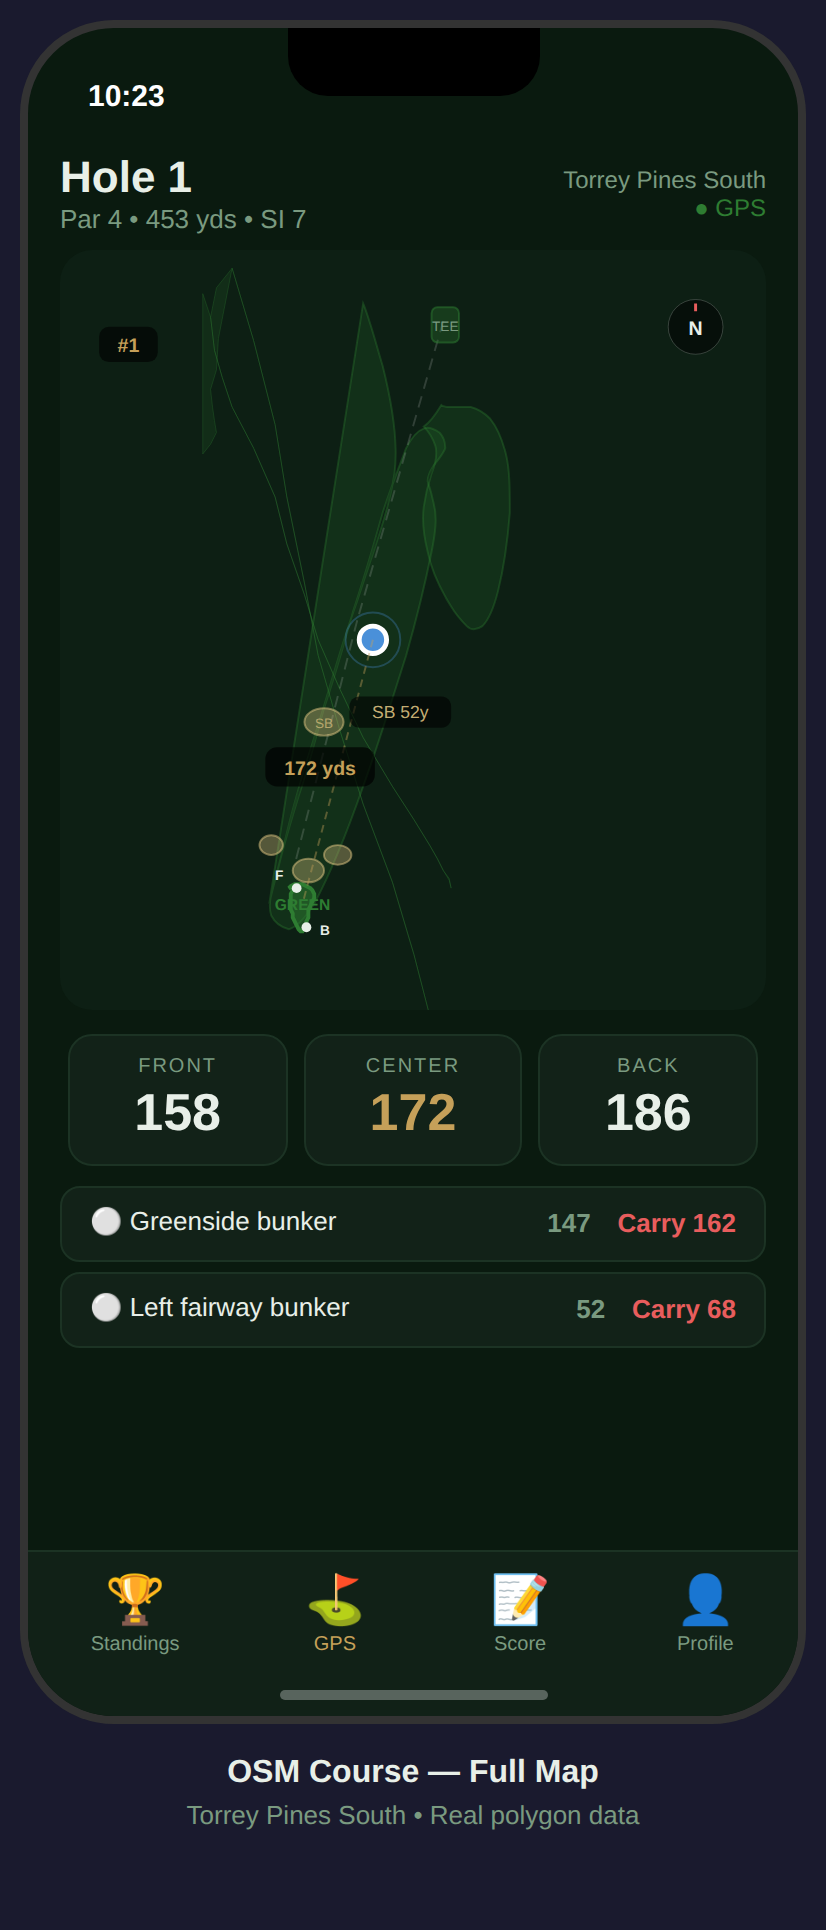
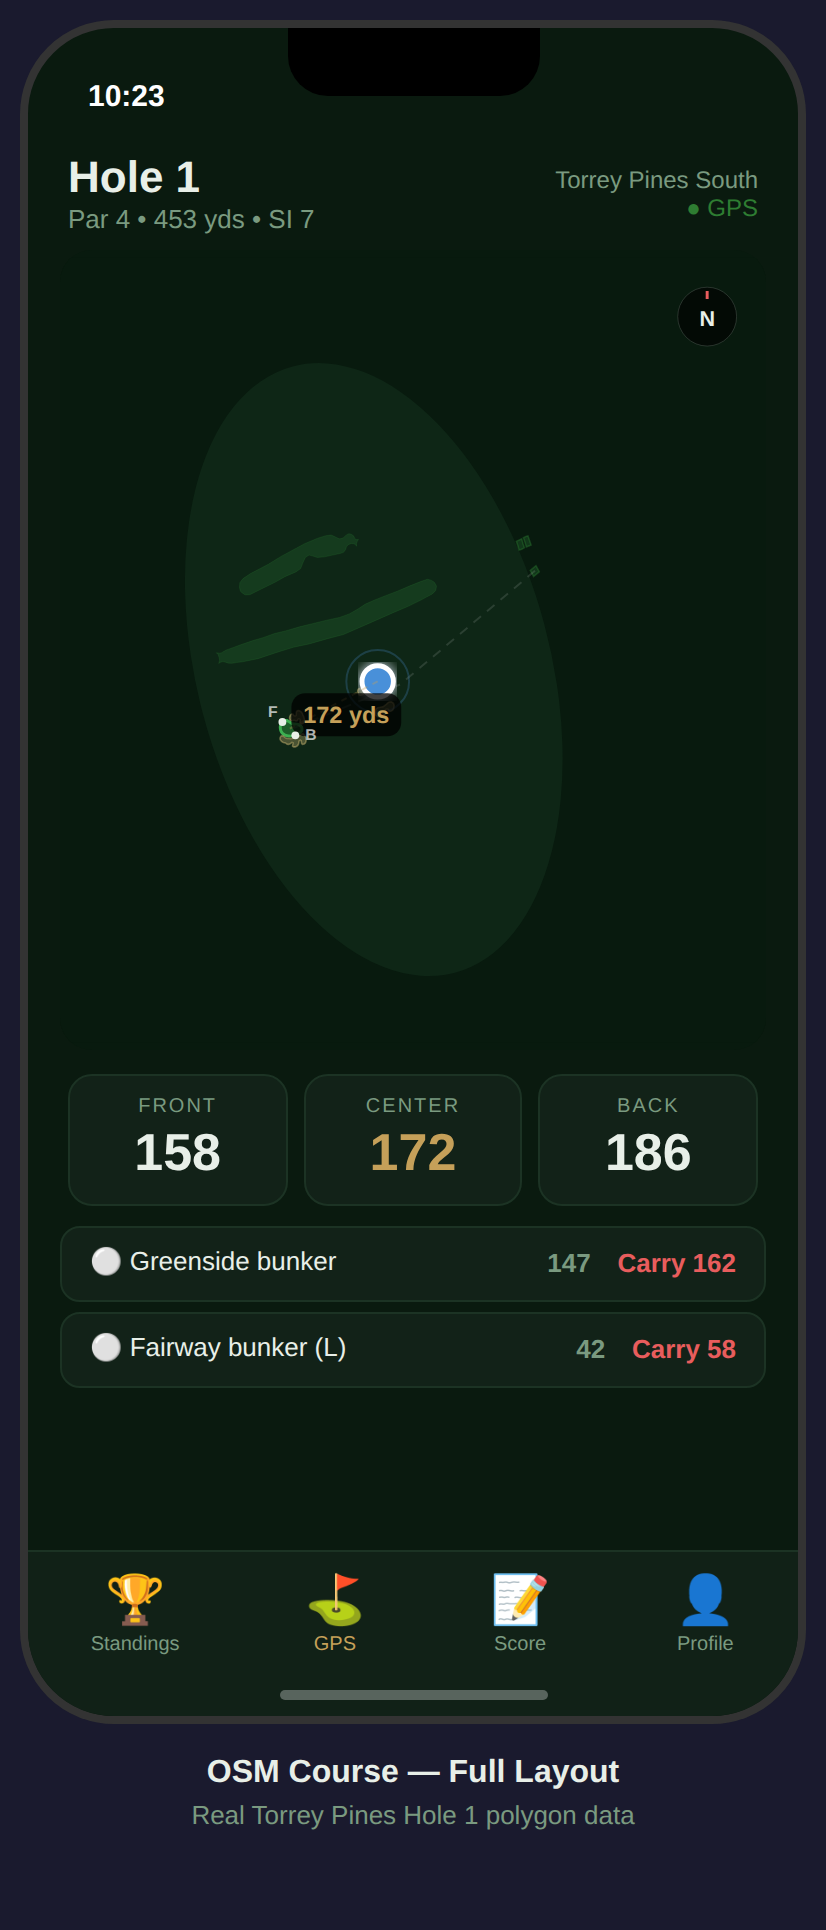
Redo OSM vs yardage mockups with real projected polygons
OSM screen uses real Torrey Pines Hole 1 data properly projected.
Yardage screen shows distance only — no map, no tapping, no fake data.

https://claude.ai/code/session_013SdjP7B4xdi4KLbhMkoADJ

diff --git a/docs/mockups/real-vs-yardage.html b/docs/mockups/real-vs-yardage.html
@@ -18,12 +18,11 @@
   .screen-label { text-align: center; color: #e8efe8; font-size: 16px; font-weight: 600; margin-top: 16px; }
   .screen-sublabel { text-align: center; color: #7a9a80; font-size: 13px; margin-top: 4px; }
 
-  .gps-hole-header { display: flex; justify-content: space-between; align-items: center; padding: 8px 0; }
+  .gps-hole-header { display: flex; justify-content: space-between; align-items: center; padding: 8px 4px; }
   .hole-num { font-size: 22px; font-weight: 700; color: #e8efe8; }
   .hole-par { font-size: 13px; color: #7a9a80; }
 
-  /* Real course map */
-  .map-area { width: 100%; height: 380px; background: #0d1f14; border-radius: 16px; position: relative; overflow: hidden; margin-bottom: 12px; }
+  .map-area { width: 100%; height: 400px; background: #081a0e; border-radius: 16px; position: relative; overflow: hidden; margin-bottom: 12px; }
   .map-svg { width: 100%; height: 100%; }
 
   .distance-main { display: flex; justify-content: space-around; margin-bottom: 10px; }
@@ -37,24 +36,18 @@
   .hazard-carry { color: #e85d5d; }
   .hazard-front { color: #7a9a80; }
 
-  /* Yardage-only screen */
-  .yardage-only { display: flex; flex-direction: column; align-items: center; justify-content: center; height: 380px; background: #0d1f14; border-radius: 16px; margin-bottom: 12px; padding: 20px; }
-  .yardage-big { font-size: 96px; font-weight: 700; color: #C5A059; line-height: 1; }
-  .yardage-label { font-size: 14px; color: #7a9a80; text-transform: uppercase; letter-spacing: 2px; margin-top: 4px; }
-  .yardage-sub { display: flex; gap: 40px; margin-top: 24px; }
-  .yardage-sub-item { text-align: center; }
-  .yardage-sub-val { font-size: 32px; font-weight: 600; color: #e8efe8; }
-  .yardage-sub-label { font-size: 11px; color: #7a9a80; text-transform: uppercase; }
-  .tap-hint { margin-top: 24px; padding: 10px 20px; background: rgba(197,160,89,0.1); border: 1px solid rgba(197,160,89,0.3); border-radius: 12px; }
-  .tap-hint-text { font-size: 13px; color: #C5A059; text-align: center; }
-  .tap-anywhere { display: flex; align-items: center; justify-content: center; gap: 8px; margin-top: 16px; }
-  .tap-icon { font-size: 20px; }
-  .tap-text { font-size: 13px; color: #7a9a80; }
+  /* Yardage-only */
+  .yardage-card { background: #081a0e; border-radius: 16px; padding: 40px 20px; margin-bottom: 12px; text-align: center; }
+  .yardage-big { font-size: 120px; font-weight: 700; color: #C5A059; line-height: 1; letter-spacing: -3px; }
+  .yardage-label { font-size: 14px; color: #7a9a80; text-transform: uppercase; letter-spacing: 2px; margin-top: 8px; }
+  .no-data-msg { text-align: center; padding: 24px 20px; }
+  .no-data-title { font-size: 15px; color: #e8efe8; margin-bottom: 6px; }
+  .no-data-sub { font-size: 13px; color: #7a9a80; line-height: 1.5; }
 </style>
 </head>
 <body>
 
-<!-- SCREEN 1: Real OSM Course Data -->
+<!-- SCREEN 1: Real OSM Course Data — Torrey Pines Hole 1 -->
 <div class="device-wrap">
 <div class="phone">
   <div class="notch"></div>
@@ -66,88 +59,73 @@
     </div>
 
     <div class="map-area">
-      <svg class="map-svg" viewBox="0 0 361 380" xmlns="http://www.w3.org/2000/svg">
-        <!-- Real Torrey Pines Hole 1 data, projected to SVG coordinates -->
-        <!-- Coordinate transform: lat/lon → SVG x,y -->
-        <!-- lat range: 32.9022 - 32.9044, lon range: -117.2505 - -117.2445 -->
-        <!-- x = (lon - minLon) / (maxLon - minLon) * 321 + 20 -->
-        <!-- y = (maxLat - lat) / (maxLat - minLat) * 340 + 20 -->
+      <svg class="map-svg" viewBox="0 0 360 400" xmlns="http://www.w3.org/2000/svg">
+        <!-- Background grass texture -->
+        <rect width="360" height="400" fill="#081a0e"/>
 
-        <!-- Fairway polygon (lower, id=848313561) -->
-        <polygon points="
-          73,100 77,95 80,89 79,83 78,76 77,67 80,57 81,41 88,5 99,42 110,85 116,122 125,166 132,203 143,241 155,279 170,319 181,356 189,387
-          181,356 170,319 155,279 143,241 132,203 125,166 116,122 110,85 99,42
-          88,5 80,15 77,30 79,47 83,61 88,76 99,97 110,122 116,146 125,172 132,195 143,220 155,245 170,270 181,287 189,300 193,307 196,313 199,318 200,322 199,317 196,313 193,307 189,300 181,287 170,270 155,245 143,220 132,195 125,172 116,146 110,122 99,97 88,76 83,61 79,47 77,30 73,18
-        " fill="rgba(46,125,50,0.15)" stroke="rgba(46,125,50,0.3)" stroke-width="0.5"/>
+        <!-- Rough area (subtle background around fairways) -->
+        <ellipse cx="160" cy="210" rx="90" ry="160" fill="rgba(20,50,30,0.5)" transform="rotate(-15 160 210)"/>
 
-        <!-- Simplified real fairway shape -->
-        <path d="M 155,23 C 158,30 162,45 165,55 C 170,75 173,95 171,110 C 168,130 160,150 152,175 C 143,200 138,220 130,245 C 122,270 118,285 115,298 C 112,310 110,318 108,325 C 107,330 107,333 108,336 C 110,340 113,342 117,343 C 121,342 125,338 130,330 C 138,315 148,290 155,270 C 163,248 170,225 177,203 C 183,182 187,165 190,150 C 192,140 193,132 191,125 C 190,120 189,117 188,114 C 188,112 189,109 191,106 C 194,102 196,100 197,97 C 197,94 196,91 194,89 C 191,87 188,86 186,87 C 183,88 180,91 177,97 C 174,105 170,115 165,130 C 160,148 155,165 150,180 C 145,198 140,215 135,230 C 130,248 127,260 122,275 C 118,288 115,298 112,310 C 110,318 108,325 107,330 Z" fill="rgba(46,125,50,0.18)" stroke="rgba(46,125,50,0.35)" stroke-width="1"/>
+        <!-- Fairway 1 (lower, approach to green) — real OSM polygon projected -->
+        <polygon points="80.9,206.9 81.9,206.2 83.1,205.9 84.3,206.2 85.8,206.7 87.7,206.8 89.9,206.4 93.2,206.0 101.0,204.4 109.7,201.5 119.0,198.6 127.1,196.9 136.5,194.2 144.6,192.1 152.8,188.5 161.0,184.9 169.6,181.1 177.6,177.7 184.1,174.5 186.9,173.0 189.9,171.4 191.6,169.6 192.0,167.4 190.9,165.5 189.5,164.5 187.4,163.9 183.9,165.1 178.4,167.3 172.3,169.9 166.0,172.3 160.2,174.6 155.7,176.6 152.1,179.0 147.5,181.6 142.5,183.4 136.0,184.8 128.6,186.6 122.1,188.2 114.9,190.3 109.4,191.6 103.5,193.7 98.0,195.3 91.1,197.7 85.7,199.7 84.7,200.0 83.9,200.5 82.8,201.1 82.2,201.5 81.3,201.6 79.7,201.4 80.6,202.3 81.1,203.7 81.4,205.2 81.0,206.7 80.9,206.9" fill="rgba(34,100,45,0.35)" stroke="rgba(46,125,50,0.2)" stroke-width="0.5"/>
 
-        <!-- Upper fairway piece -->
-        <path d="M 195,75 C 192,80 189,84 186,86 C 189,89 191,93 192,96 C 193,100 192,105 190,110 C 188,116 187,120 186,127 C 185,135 186,142 188,150 C 190,160 195,170 200,178 C 203,183 206,186 208,188 C 210,190 213,190 216,188 C 219,185 222,178 224,170 C 227,158 229,143 230,130 C 230,118 230,108 228,100 C 226,92 224,87 220,82 C 217,79 214,77 210,76 C 207,76 203,76 200,76 C 198,76 196,76 195,75 Z" fill="rgba(46,125,50,0.18)" stroke="rgba(46,125,50,0.35)" stroke-width="1"/>
+        <!-- Fairway 2 (upper, off the tee) -->
+        <polygon points="152.2,143.6 151.6,144.6 151.2,145.6 151.2,147.1 150.6,146.2 149.7,145.8 148.4,145.7 146.8,146.4 146.0,147.5 145.7,148.7 144.6,150.2 142.8,150.8 139.0,151.6 134.9,152.5 131.2,152.8 128.6,152.0 127.0,151.6 125.1,152.8 123.8,155.7 122.7,158.5 120.3,160.2 114.7,162.6 109.6,165.5 100.8,169.8 96.8,171.8 94.5,171.9 93.0,171.0 92.0,170.0 91.5,168.1 91.7,165.7 93.3,163.6 97.2,161.0 106.2,156.3 112.5,152.4 118.8,149.0 124.7,145.8 131.4,143.0 135.6,141.7 138.3,141.4 141.0,142.6 142.3,143.3 143.4,143.2 144.5,142.8 146.0,141.3 147.3,140.7 148.6,141.0 149.7,141.8 150.4,143.3 151.1,143.7 152.2,143.6" fill="rgba(34,100,45,0.35)" stroke="rgba(46,125,50,0.2)" stroke-width="0.5"/>
 
-        <!-- Hole line of play (real: tee → mid → green) -->
-        <line x1="196" y1="32" x2="152" y2="185" stroke="rgba(255,255,255,0.15)" stroke-width="1" stroke-dasharray="6,4"/>
-        <line x1="152" y1="185" x2="120" y2="310" stroke="rgba(255,255,255,0.15)" stroke-width="1" stroke-dasharray="6,4"/>
+        <!-- Green polygon — real 34-point shape from OSM -->
+        <polygon points="112.9,241.8 112.6,241.1 112.4,240.3 112.3,239.3 112.5,238.3 112.8,237.5 113.4,236.7 114.0,236.2 114.8,235.9 115.7,235.9 116.6,236.4 117.3,236.9 118.1,237.4 119.1,237.7 119.9,237.7 120.9,237.8 121.8,238.0 122.5,238.6 123.2,239.3 123.4,240.2 123.3,241.1 122.6,242.0 121.8,242.5 120.7,243.0 119.8,243.3 118.9,243.6 118.0,243.8 117.2,243.9 116.4,243.9 115.4,243.6 114.5,243.2 113.7,242.7 113.2,242.2 112.9,241.8" fill="rgba(40,130,55,0.6)" stroke="#3CAF50" stroke-width="1.5"/>
 
-        <!-- Green polygon (real 34-point polygon from OSM) -->
-        <polygon points="
-          117,322 118,321 120,320 122,320 124,320 126,321 128,322 129,323 130,325 130,327 129,329 128,331 127,333 127,335 127,337 126,339 126,341 125,342 124,344 123,344 122,343 121,341 120,339 119,337 119,335 118,333 118,331 118,329 118,327 118,325 119,323 119,322 120,321 117,322
-        " fill="rgba(46,125,50,0.5)" stroke="#2E7D32" stroke-width="2"/>
-        <text x="124" y="333" text-anchor="middle" font-size="8" fill="#2E7D32" font-weight="600">GREEN</text>
+        <!-- Bunkers — real OSM polygons -->
+        <!-- Greenside bunker left -->
+        <polygon points="118.6,249.1 119.2,249.4 119.9,249.4 120.7,249.1 121.2,248.7 121.6,248.0 121.8,247.1 121.9,246.4 122.5,246.0 123.0,246.3 123.1,246.9 123.2,247.7 123.7,248.1 124.5,247.9 125.1,247.4 125.4,246.7 125.5,245.9 125.4,245.1 125.3,244.4 124.9,243.7 124.5,243.2 123.9,242.7 123.3,242.9 122.8,243.2 122.3,243.7 121.8,244.0 121.1,244.1 120.3,244.0 119.7,244.3 119.3,244.7 118.8,245.0 118.3,245.1 117.6,245.2 116.6,245.1 115.7,245.1 114.8,244.7 114.4,244.3 113.9,243.9 113.4,243.8 112.9,243.8 112.5,244.2 112.2,244.9 112.3,245.7 112.8,246.4 113.3,246.9 113.9,247.2 114.6,247.3 115.3,247.6 115.8,248.0 116.5,248.1 117.2,247.9 117.8,247.5 118.3,247.1 118.8,247.3 118.8,247.9 118.6,248.5 118.6,249.1" fill="rgba(215,190,120,0.3)" stroke="rgba(215,190,120,0.45)" stroke-width="0.8"/>
 
-        <!-- Bunker near green (id=35678773, real position) -->
-        <ellipse cx="127" cy="313" rx="8" ry="6" fill="rgba(222,195,130,0.35)" stroke="rgba(222,195,130,0.5)" stroke-width="1"/>
+        <!-- Greenside bunker right -->
+        <polygon points="122.3,235.3 122.5,236.0 122.3,236.7 122.5,237.3 123.0,237.6 123.6,237.6 124.1,237.3 124.6,236.7 124.7,235.9 124.6,235.1 124.3,234.1 123.9,233.2 123.6,232.4 123.1,231.7 122.6,231.3 122.1,231.0 121.6,230.9 121.0,231.0 120.6,231.5 120.5,232.1 120.5,232.7 120.4,233.4 120.0,233.6 119.4,233.5 119.0,233.1 118.7,232.6 118.2,232.6 117.8,232.9 117.4,233.3 117.3,233.8 117.1,234.3 117.1,234.9 117.3,235.6 117.7,235.9 118.4,236.1 119.0,235.9 119.6,235.9 120.2,236.2 120.7,236.2 121.1,235.9 121.3,235.3 121.8,235.1 122.3,235.3" fill="rgba(215,190,120,0.3)" stroke="rgba(215,190,120,0.45)" stroke-width="0.8"/>
 
-        <!-- Bunker left of fairway (id=35678772, real position) -->
-        <ellipse cx="135" cy="237" rx="10" ry="7" fill="rgba(222,195,130,0.35)" stroke="rgba(222,195,130,0.5)" stroke-width="1"/>
-        <text x="135" y="240" text-anchor="middle" font-size="7" fill="rgba(222,195,130,0.7)">SB</text>
+        <!-- Fairway bunker left -->
+        <polygon points="168.1,226.5 167.5,226.7 166.9,227.2 166.4,227.7 165.7,228.2 165.1,228.7 164.6,229.0 163.9,229.1 162.9,229.3 162.0,229.5 161.3,230.0 160.9,230.7 160.7,231.4 160.6,232.1 160.7,233.0 161.2,233.4 161.8,234.0 162.7,234.3 163.4,234.0 164.2,233.8 164.9,233.4 165.5,233.0 165.7,232.3 165.6,231.5 165.7,230.9 166.1,230.3 166.8,230.1 167.4,230.3 167.7,231.0 168.2,231.3 168.9,231.1 169.6,230.7 170.1,229.9 170.3,229.1 170.4,228.4 170.2,227.6 169.9,227.1 169.4,226.7 168.9,226.4 168.1,226.5" fill="rgba(215,190,120,0.3)" stroke="rgba(215,190,120,0.45)" stroke-width="0.8"/>
 
-        <!-- Additional bunkers -->
-        <ellipse cx="108" cy="300" rx="6" ry="5" fill="rgba(222,195,130,0.35)" stroke="rgba(222,195,130,0.5)" stroke-width="1"/>
-        <ellipse cx="142" cy="305" rx="7" ry="5" fill="rgba(222,195,130,0.35)" stroke="rgba(222,195,130,0.5)" stroke-width="1"/>
+        <!-- Additional bunkers along right side -->
+        <polygon points="151.8,221.3 152.0,221.9 152.3,222.5 152.6,223.0 153.2,223.1 153.7,223.0 154.2,222.8 154.8,222.5 155.2,222.1 155.6,221.6 155.9,221.2 156.1,220.5 156.1,219.9 155.8,219.3 155.4,218.9 154.8,218.9 154.3,219.1 154.0,219.2 153.7,219.4 153.5,219.7 153.0,219.7 152.5,219.7 152.0,220.1 151.8,220.7 151.8,221.3" fill="rgba(215,190,120,0.3)" stroke="rgba(215,190,120,0.45)" stroke-width="0.8"/>
 
-        <!-- Tee box -->
-        <rect x="190" y="25" width="14" height="18" rx="3" fill="rgba(46,125,50,0.3)" stroke="rgba(46,125,50,0.5)" stroke-width="1"/>
-        <text x="197" y="37" text-anchor="middle" font-size="7" fill="#7a9a80">TEE</text>
+        <polygon points="162.7,216.3 163.3,216.8 163.9,216.9 164.5,216.6 165.4,216.1 166.0,215.5 166.5,215.0 167.0,214.1 167.1,213.1 167.0,212.3 166.7,211.7 166.3,211.2 165.8,211.0 165.2,211.0 164.6,211.1 164.2,211.6 164.1,212.3 164.4,212.7 164.8,212.9 165.2,213.3 165.2,214.0 164.8,214.4 164.2,214.5 163.8,214.1 163.4,213.6 163.0,213.5 162.6,213.7 162.2,214.0 162.2,214.9 162.3,215.6 162.7,216.3" fill="rgba(215,190,120,0.3)" stroke="rgba(215,190,120,0.45)" stroke-width="0.8"/>
 
-        <!-- User position (on fairway, mid-hole) -->
-        <circle cx="160" cy="195" r="7" fill="#4A90D9" stroke="#fff" stroke-width="2.5"/>
-        <circle cx="160" cy="195" r="14" fill="none" stroke="rgba(74,144,217,0.3)" stroke-width="1"/>
+        <!-- Tee boxes -->
+        <polygon points="239.8,159.4 241.5,162.5 244.4,160.1 242.7,157.0 239.8,159.4" fill="rgba(34,100,45,0.4)" stroke="rgba(46,125,50,0.4)" stroke-width="0.8"/>
+        <polygon points="236.3,142.7 237.6,142.1 238.6,141.8 239.6,144.7 240.2,146.5 239.0,147.0 237.8,147.5 237.1,145.0 236.3,142.7" fill="rgba(34,100,45,0.4)" stroke="rgba(46,125,50,0.4)" stroke-width="0.8"/>
+        <polygon points="232.7,144.6 234.2,143.9 235.4,143.3 236.1,145.8 236.8,147.8 235.4,148.6 234.1,149.0 233.4,146.6 232.7,144.6" fill="rgba(34,100,45,0.4)" stroke="rgba(46,125,50,0.4)" stroke-width="0.8"/>
 
-        <!-- Distance line from user to green -->
-        <line x1="160" y1="195" x2="124" y2="330" stroke="rgba(197,160,89,0.4)" stroke-width="1" stroke-dasharray="4,3"/>
+        <!-- Hole line of play (dashed) -->
+        <polyline points="242.2,159.6 173.4,217.6 117.8,240.4" fill="none" stroke="rgba(255,255,255,0.12)" stroke-width="1" stroke-dasharray="5,4"/>
 
-        <!-- Distance labels on map -->
-        <g>
-          <rect x="105" y="250" width="56" height="20" rx="6" fill="rgba(0,0,0,0.7)"/>
-          <text x="133" y="264" text-anchor="middle" font-size="10" fill="#C5A059" font-weight="600">172 yds</text>
-        </g>
+        <!-- User position dot -->
+        <circle cx="162" cy="216" r="8" fill="#4A90D9" stroke="#fff" stroke-width="2.5" filter="url(#glow)"/>
+        <circle cx="162" cy="216" r="16" fill="none" stroke="rgba(74,144,217,0.25)" stroke-width="1"/>
 
-        <!-- Bunker distance label -->
-        <g>
-          <rect x="148" y="224" width="52" height="16" rx="5" fill="rgba(0,0,0,0.6)"/>
-          <text x="174" y="235" text-anchor="middle" font-size="9" fill="rgba(222,195,130,0.9)">SB 52y</text>
-        </g>
+        <!-- Distance line user → green -->
+        <line x1="162" y1="216" x2="117.2" y2="240.1" stroke="rgba(197,160,89,0.35)" stroke-width="1" stroke-dasharray="3,3"/>
 
-        <!-- Front/back markers on green -->
-        <circle cx="121" cy="322" r="2.5" fill="#e8efe8" stroke="none"/>
-        <text x="110" y="318" font-size="7" fill="#e8efe8" font-weight="600">F</text>
-        <circle cx="126" cy="342" r="2.5" fill="#e8efe8" stroke="none"/>
-        <text x="133" y="346" font-size="7" fill="#e8efe8" font-weight="600">B</text>
+        <!-- Distance badge on map -->
+        <rect x="118" y="222" width="56" height="22" rx="7" fill="rgba(0,0,0,0.75)"/>
+        <text x="146" y="237" text-anchor="middle" font-size="12" fill="#C5A059" font-weight="700">172 yds</text>
+
+        <!-- Front/Back indicators on green -->
+        <circle cx="113.4" cy="236.7" r="2" fill="#e8efe8"/>
+        <text x="106" cy="236" font-size="8" fill="rgba(255,255,255,0.7)" y="234" font-weight="600">F</text>
+        <circle cx="120" cy="243.5" r="2" fill="#e8efe8"/>
+        <text x="125" font-size="8" fill="rgba(255,255,255,0.7)" y="246" font-weight="600">B</text>
 
         <!-- Compass -->
-        <g transform="translate(325,35)">
-          <circle cx="0" cy="0" r="14" fill="rgba(0,0,0,0.5)" stroke="rgba(255,255,255,0.2)" stroke-width="0.5"/>
-          <text x="0" y="4" text-anchor="middle" font-size="10" fill="#e8efe8" font-weight="600">N</text>
-          <line x1="0" y1="-8" x2="0" y2="-12" stroke="#e85d5d" stroke-width="1.5"/>
+        <g transform="translate(330,30)">
+          <circle r="15" fill="rgba(0,0,0,0.6)" stroke="rgba(255,255,255,0.15)" stroke-width="0.5"/>
+          <text x="0" y="5" text-anchor="middle" font-size="11" fill="#e8efe8" font-weight="600">N</text>
+          <line x1="0" y1="-9" x2="0" y2="-13" stroke="#e85d5d" stroke-width="1.5"/>
         </g>
 
-        <!-- Hole number overlay -->
-        <g transform="translate(20,35)">
-          <rect x="0" y="0" width="30" height="18" rx="5" fill="rgba(0,0,0,0.6)"/>
-          <text x="15" y="13" text-anchor="middle" font-size="10" fill="#C5A059" font-weight="700">#1</text>
-        </g>
+        <!-- Glow filter for user dot -->
+        <defs>
+          <filter id="glow"><feGaussianBlur stdDeviation="3" result="blur"/><feMerge><feMergeNode in="blur"/><feMergeNode in="SourceGraphic"/></feMerge></filter>
+        </defs>
       </svg>
     </div>
 
@@ -162,8 +140,8 @@
       <div><span class="hazard-dist hazard-front">147</span> &nbsp; <span class="hazard-dist hazard-carry">Carry 162</span></div>
     </div>
     <div class="hazard-row">
-      <div class="hazard-name">&#9898; Left fairway bunker</div>
-      <div><span class="hazard-dist hazard-front">52</span> &nbsp; <span class="hazard-dist hazard-carry">Carry 68</span></div>
+      <div class="hazard-name">&#9898; Fairway bunker (L)</div>
+      <div><span class="hazard-dist hazard-front">42</span> &nbsp; <span class="hazard-dist hazard-carry">Carry 58</span></div>
     </div>
   </div>
 
@@ -175,56 +153,57 @@
   </div>
   <div class="home-indicator"></div>
 </div>
-<div class="screen-label">OSM Course — Full Map</div>
-<div class="screen-sublabel">Torrey Pines South &bull; Real polygon data</div>
+<div class="screen-label">OSM Course — Full Layout</div>
+<div class="screen-sublabel">Real Torrey Pines Hole 1 polygon data</div>
 </div>
 
-<!-- SCREEN 2: Yardage Only (no course data) -->
+<!-- SCREEN 2: Yardage Only -->
 <div class="device-wrap">
 <div class="phone">
   <div class="notch"></div>
-  <div class="status-bar"><span>10:23</span><span></span></div>
+  <div class="status-bar"><span>2:15</span><span></span></div>
   <div class="screen">
     <div class="gps-hole-header">
       <div><div class="hole-num">Hole 4</div><div class="hole-par">Par 4 &bull; 380 yds</div></div>
       <div style="text-align:right"><div style="font-size:12px;color:#7a9a80;">Rancho Bernardo Inn</div><div style="font-size:12px;color:#C5A059;">&#9679; Yardage</div></div>
     </div>
 
-    <div class="yardage-only">
+    <div class="yardage-card">
       <div class="yardage-big">164</div>
-      <div class="yardage-label">to center of green</div>
-      <div class="yardage-sub">
-        <!-- No front/back without polygon data -->
-      </div>
-
-      <div class="tap-hint">
-        <div class="tap-hint-text">Tap green on map to save &bull; auto-distances next round</div>
-      </div>
-
-      <div class="tap-anywhere">
-        <div class="tap-icon">&#128205;</div>
-        <div class="tap-text">Tap anywhere for distance</div>
-      </div>
+      <div class="yardage-label">yards to green</div>
     </div>
 
     <div class="distance-main">
-      <div class="dist-item" style="opacity:0.4"><div class="dist-label">Front</div><div class="dist-value">—</div></div>
+      <div class="dist-item" style="opacity:0.3;border-style:dashed;"><div class="dist-label">Front</div><div class="dist-value">—</div></div>
       <div class="dist-item center"><div class="dist-label">Center</div><div class="dist-value">164</div></div>
-      <div class="dist-item" style="opacity:0.4"><div class="dist-label">Back</div><div class="dist-value">—</div></div>
+      <div class="dist-item" style="opacity:0.3;border-style:dashed;"><div class="dist-label">Back</div><div class="dist-value">—</div></div>
     </div>
 
-    <div style="text-align:center;padding:20px;color:#7a9a80;font-size:13px;">
-      No course map available<br>
-      <span style="color:#C5A059;font-size:12px;">Tap the green on satellite view to save it</span>
+    <div class="no-data-msg">
+      <div class="no-data-title">Course map not available</div>
+      <div class="no-data-sub">Front/back and hazard distances require<br>OpenStreetMap data for this course.</div>
     </div>
 
-    <div style="background:#122218;border-radius:12px;padding:16px;border:1px solid #1c3324;margin-top:8px;">
-      <div style="display:flex;justify-content:space-between;align-items:center;">
-        <div>
-          <div style="font-size:14px;color:#e8efe8;font-weight:600;">Switch to Satellite</div>
-          <div style="font-size:12px;color:#7a9a80;">See the course from above</div>
-        </div>
-        <div style="font-size:20px;color:#C5A059;">&#127760;</div>
+    <!-- Hole navigation -->
+    <div style="display:flex;justify-content:space-between;align-items:center;background:#122218;border-radius:12px;padding:14px 18px;margin-top:16px;border:1px solid #1c3324;">
+      <div style="color:#7a9a80;font-size:14px;">&#9664; Hole 3</div>
+      <div style="color:#e8efe8;font-size:16px;font-weight:600;">4 of 18</div>
+      <div style="color:#7a9a80;font-size:14px;">Hole 5 &#9654;</div>
+    </div>
+
+    <!-- Score for this hole -->
+    <div style="display:flex;justify-content:space-between;align-items:center;background:#122218;border-radius:12px;padding:14px 18px;margin-top:8px;border:1px solid #1c3324;">
+      <div>
+        <div style="color:#7a9a80;font-size:12px;">SCORE</div>
+        <div style="color:#e8efe8;font-size:20px;font-weight:700;">—</div>
+      </div>
+      <div>
+        <div style="color:#7a9a80;font-size:12px;">THRU 3</div>
+        <div style="color:#C5A059;font-size:20px;font-weight:700;">+2</div>
+      </div>
+      <div>
+        <div style="color:#7a9a80;font-size:12px;">NET</div>
+        <div style="color:#2E7D32;font-size:20px;font-weight:700;">E</div>
       </div>
     </div>
   </div>
@@ -238,7 +217,7 @@
   <div class="home-indicator"></div>
 </div>
 <div class="screen-label">No Course Data — Yardage Only</div>
-<div class="screen-sublabel">Unmapped course &bull; Center distance + tap-and-save</div>
+<div class="screen-sublabel">Center distance only &bull; No front/back or hazards</div>
 </div>
 
 </body>
